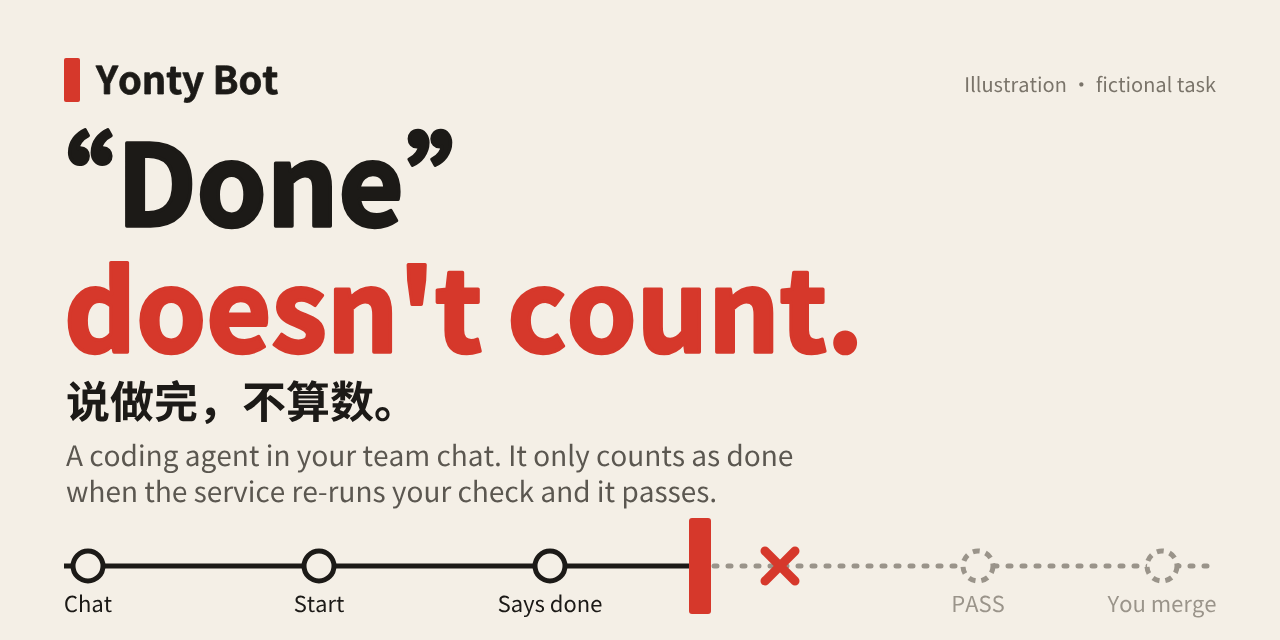
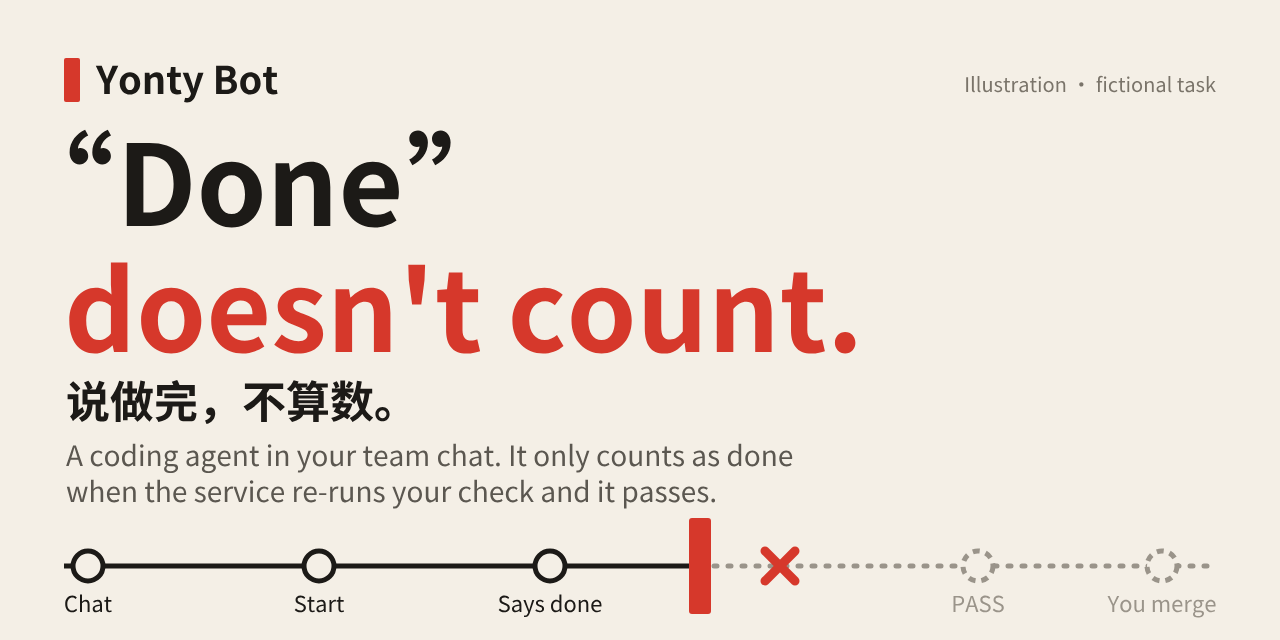
docs: 主句去掉描边加粗，直接用 Noto Sans CJK SC Bold 字形

diff --git a/docs/assets/source/hero/build.py b/docs/assets/source/hero/build.py
@@ -46,7 +46,7 @@ def width(s, size, fk):
     f, gs, cmap, upem = font(*fk)
     return sum(metrics(c, gs, cmap)[0] for c in s) * size / upem
 
-def text(s, x, y, size, fk, fill, anchor="start", heavy=0.0):
+def text(s, x, y, size, fk, fill, anchor="start"):
     f, gs, cmap, upem = font(*fk)
     w = width(s, size, fk)
     if anchor == "middle": x -= w / 2
@@ -64,8 +64,7 @@ def text(s, x, y, size, fk, fill, anchor="start", heavy=0.0):
         g.draw(TransformPen(pen, (sc, 0, 0, -sc, x - off * sc, y)))
         d.append(pen.getCommands())
         x += adv * sc
-    st = f' stroke="{fill}" stroke-width="{n(size*heavy)}" stroke-linejoin="round"' if heavy else ""
-    return f'<path fill="{fill}"{st} d="{"".join(d)}"/>'
+    return f'<path fill="{fill}" d="{"".join(d)}"/>'
 
 LIGHT = dict(bg="#f4efe6", fg="#1c1a17", red="#d6382b", mute="#7a746a", dim="#9a948a", card="#ffffff", sub="#5b5750")
 DARK = dict(bg="#1a1814", fg="#f4efe6", red="#ff5f4f", mute="#a39d92", dim="#6f695f", card="#25221d", sub="#c4beb2")
@@ -99,8 +98,8 @@ def hero(lang, c):
     zh = lang == "zh"
     b = []
     if zh:
-        b.append(text("说做完，", 64, 150, 104, BOLD, c["fg"], heavy=0.03))
-        b.append(text("不算数。", 64 + width("说做完，", 104, BOLD), 150, 104, BOLD, c["red"], heavy=0.03))
+        b.append(text("说做完，", 64, 150, 104, BOLD, c["fg"]))
+        b.append(text("不算数。", 64 + width("说做完，", 104, BOLD), 150, 104, BOLD, c["red"]))
         b.append(text("服务自己复跑一遍验证命令，没过就退回。", 66, 210, 32, SANS, c["sub"]))
         labels = ["聊天派活", "开工", "说做完了", "PASS", "你来合并"]
         head, mono = "[验证失败]", "1 failed, 11 passed  →  退回返工"
@@ -109,8 +108,8 @@ def hero(lang, c):
         title, desc = "说做完，不算数。", "流程示意：任务说做完后，服务复跑验证命令，没过就退回；PASS 之后由你决定合并。没写验证命令时服务不复核。"
     else:
         a = "\u201cDone\u201d "
-        b.append(text(a, 64, 150, 92, BOLD, c["fg"], heavy=0.03))
-        b.append(text("doesn't count.", 64 + width(a, 92, BOLD), 150, 92, BOLD, c["red"], heavy=0.03))
+        b.append(text(a, 64, 150, 92, BOLD, c["fg"]))
+        b.append(text("doesn't count.", 64 + width(a, 92, BOLD), 150, 92, BOLD, c["red"]))
         b.append(text("The service re-runs the check itself. Fail, and it goes back.", 66, 210, 32, SANS, c["sub"]))
         labels = ["Chat request", "Start", "Says done", "PASS", "You merge"]
         head, mono = "[Check failed]", "1 failed, 11 passed  →  sent back"
@@ -137,10 +136,10 @@ def card():
     c = LIGHT
     W, H, LY = 1280, 640, 566
     b = [f'<rect x="64" y="58" width="16" height="44" rx="2" fill="{c["red"]}"/>',
-         text("Yonty Bot", 96, 94, 38, BOLD, c["fg"], heavy=0.02),
+         text("Yonty Bot", 96, 94, 38, BOLD, c["fg"]),
          text("Illustration · fictional task", 1216, 92, 20, SANS, c["mute"], "end"),
-         text("\u201cDone\u201d", 64, 226, 112, BOLD, c["fg"], heavy=0.03),
-         text("doesn't count.", 64, 352, 112, BOLD, c["red"], heavy=0.03),
+         text("\u201cDone\u201d", 64, 226, 112, BOLD, c["fg"]),
+         text("doesn't count.", 64, 352, 112, BOLD, c["red"]),
          text("说做完，不算数。", 66, 418, 44, BOLD, c["fg"]),
          text("A coding agent in your team chat. It only counts as done", 66, 466, 28, SANS, c["sub"]),
          text("when the service re-runs your check and it passes.", 66, 502, 28, SANS, c["sub"])]

diff --git a/docs/assets/source/hero/README.md b/docs/assets/source/hero/README.md
@@ -17,6 +17,7 @@ python3 -I docs/assets/source/hero/build.py
 - 全部用代码画的矢量。文字用 `fontTools` 转成路径，GitHub 上不依赖系统字体；SVG 不含脚本、外链和位图。
 - 文案、配色、版面都在 `build.py` 里。改主句或流程文字后重出即可，缺字会直接报错。
 - 画面里的任务、仓库是虚构的，图上写了“示意”（Illustration）。不写版本号、星数和用户数。
+- 主句直接用 Noto Sans CJK SC Bold 字形，不用描边合成字重：描边会把中文的细缝糊住。要更重只能换字体自带的粗细。
 - 流程事实：普通任务的草稿合并请求由任务自己在验证前建，PASS 之后由你决定合并。所以第 5 个节点写“你来合并”（You merge），不画成 PASS 触发合并请求。没写验证命令时服务不复核，这句写在 SVG 的 `<desc>` 里，README 引用时也要写。
 - 英文主句：`“Done” doesn't count.`（弯引号，后半句红色）。备选 `Saying done doesn't count.`，选前者：引号把“说做完”的口气带出来，和中文一样两段。弯引号在 CJK 字体里是全角，脚本按字形实际宽度收紧。
 - 社交卡片以英文为主，带中文主句；只出 PNG，中间 SVG 生成后即删。
